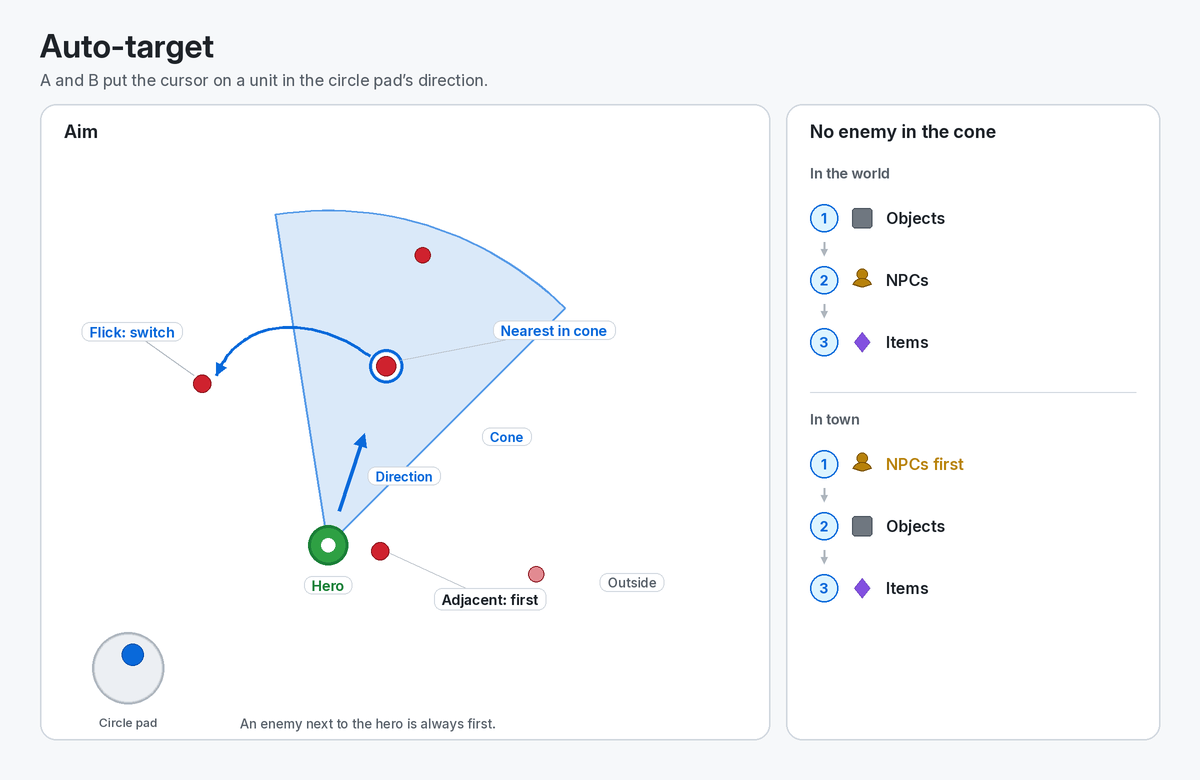
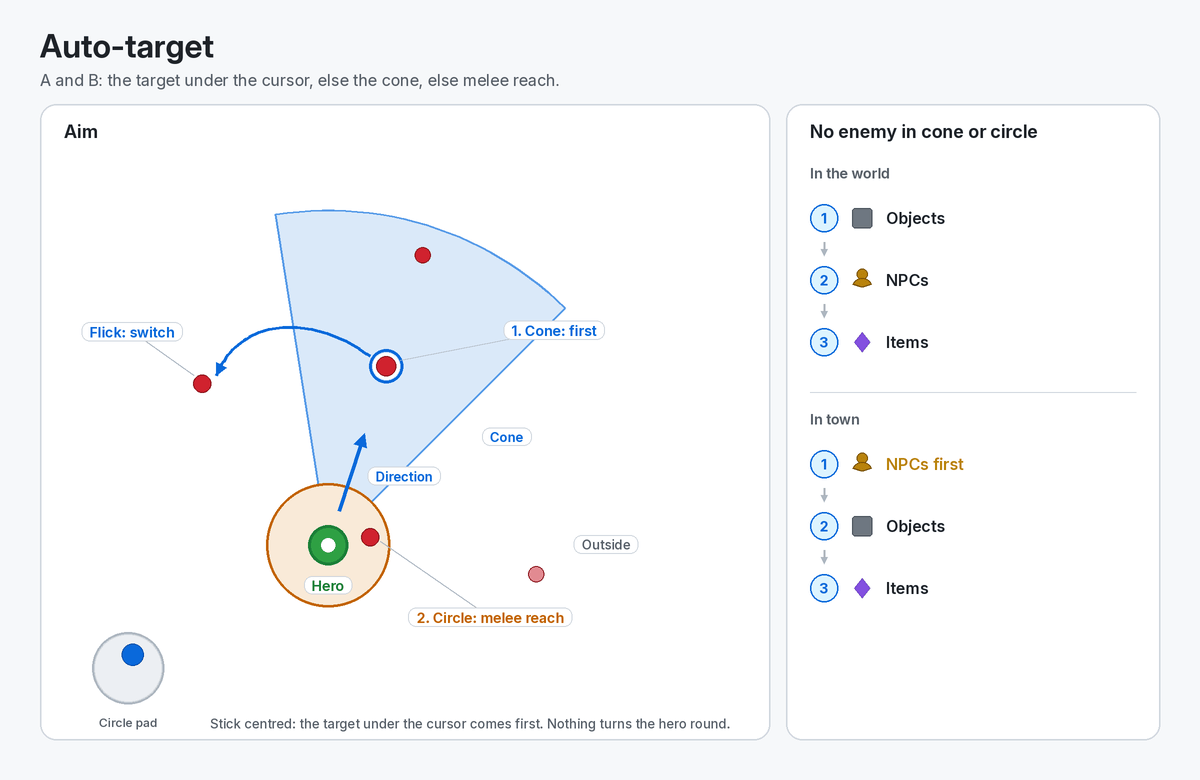
docs: the AIM FAQ and the auto-target schematic in the new order
The AIM tab's FAQ and docs/images/fork-auto-target.png now give the order
the auto-target uses: with the circle pad centred, the target the game
already shows under the cursor; then the enemy in the cone the hero faces
or walked; only with none there, the nearest enemy within melee reach
round the hero (nothing turns him round); objects, NPCs and items only
with no enemy in either.

diff --git a/src/game/aim_faq.h b/src/game/aim_faq.h
@@ -18,10 +18,14 @@ constexpr const char *kAimFaq[] = {
     "direction is used.",
     "",
     "TARGETING",
-    "An enemy right next to you always",
+    "With the pad centred, a target the",
+    "game already shows under the cursor",
     "comes first. Otherwise, the nearest",
-    "one within the cone (degrees each side",
-    "of the pad's direction) and the range.",
+    "enemy within the cone (degrees each",
+    "side of the way you face or walked)",
+    "and the range. Only with none there,",
+    "the nearest enemy within melee reach",
+    "around you. Nothing turns you round.",
     "The target stays until it dies,",
     "leaves the screen or can't be reached.",
     "An enemy takes over only when you were",
@@ -42,12 +46,13 @@ constexpr const char *kAimFaq[] = {
     "only switch between enemies.",
     "",
     "WHAT ELSE DOES A DO?",
-    "With no enemy in the cone, A uses, in",
-    "this order: objects (shrines, chests,",
-    "waypoints, doors, levers, cave",
-    "entrances and stairs, barrels; used",
-    "ones are skipped), NPCs, then the",
-    "nearest item. In town, NPCs come first.",
+    "With no enemy in the cone or in melee",
+    "reach, A uses, in this order: objects",
+    "(shrines, chests, waypoints, doors,",
+    "levers, cave entrances and stairs,",
+    "barrels; used ones are skipped), NPCs,",
+    "then the nearest item. In town, NPCs",
+    "come first.",
     "Keep A held to go from one to the next.",
     "B aims only at enemies and NPCs.",
     "",

diff --git a/docs/fork-auto-target.md b/docs/fork-auto-target.md
@@ -7,7 +7,7 @@ console there is no mouse to point at a monster, so in the game world **A** and
 press the left or right mouse button. A stick walk never talks, opens, picks
 up, attacks or takes a level warp; let go, and the hero stops where he stands.
 
-![Auto-target: hero, circle-pad direction, a cone, the nearest enemy highlighted, adjacent-enemy priority, and flick switching](images/fork-auto-target.png)
+![Auto-target: the cone in the circle pad's direction first, then the melee circle round the hero, flick switching, and the order with no enemy in either](images/fork-auto-target.png)
 
 The full rules and every setting are in [controls.md](controls.md#auto-target-a-and-b);
 this page is the short version and a map of the code.
